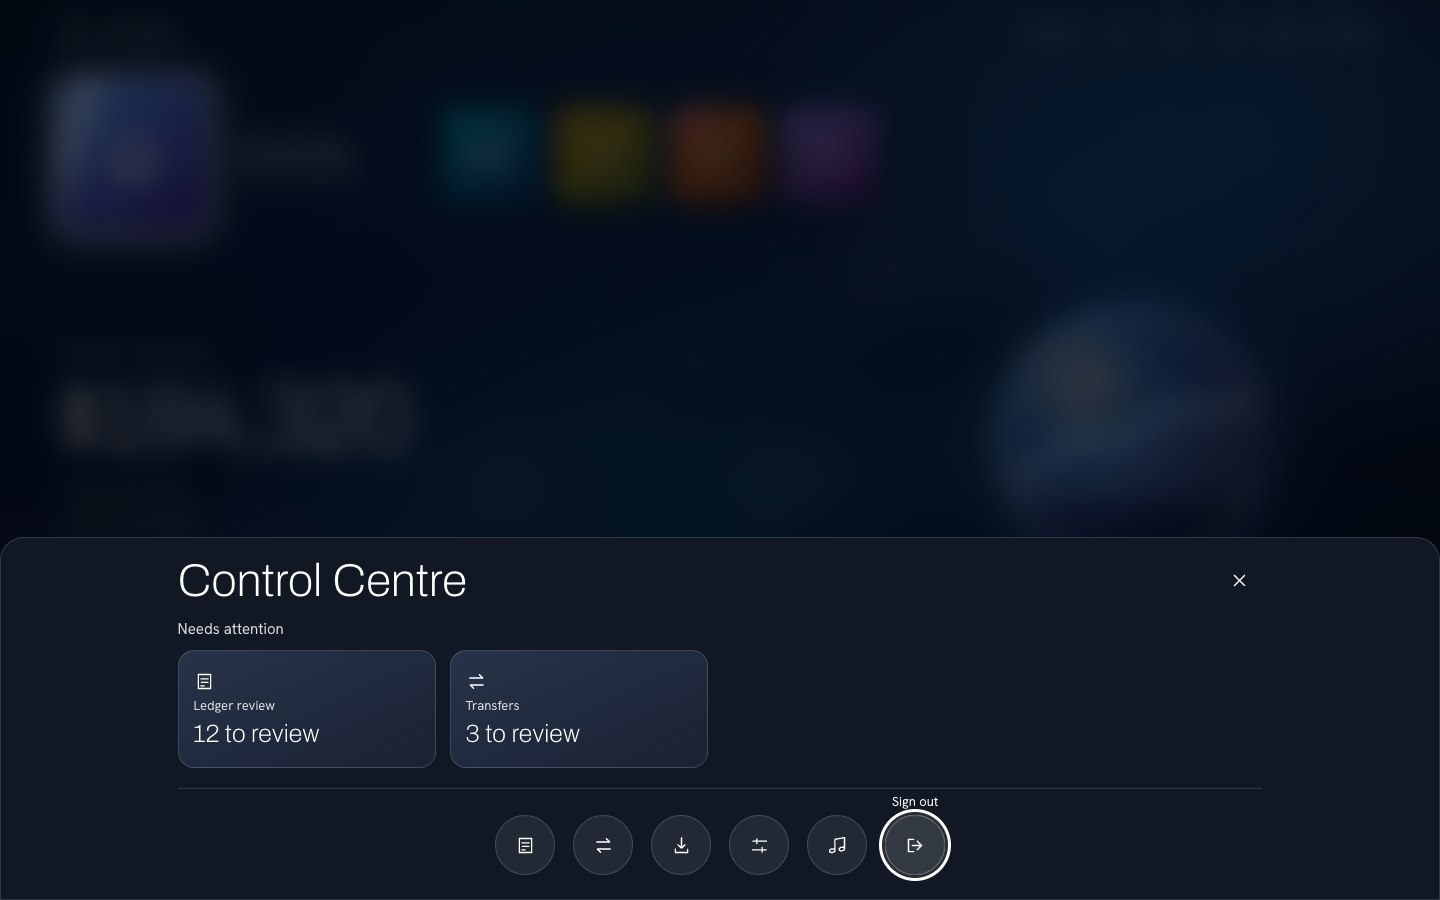
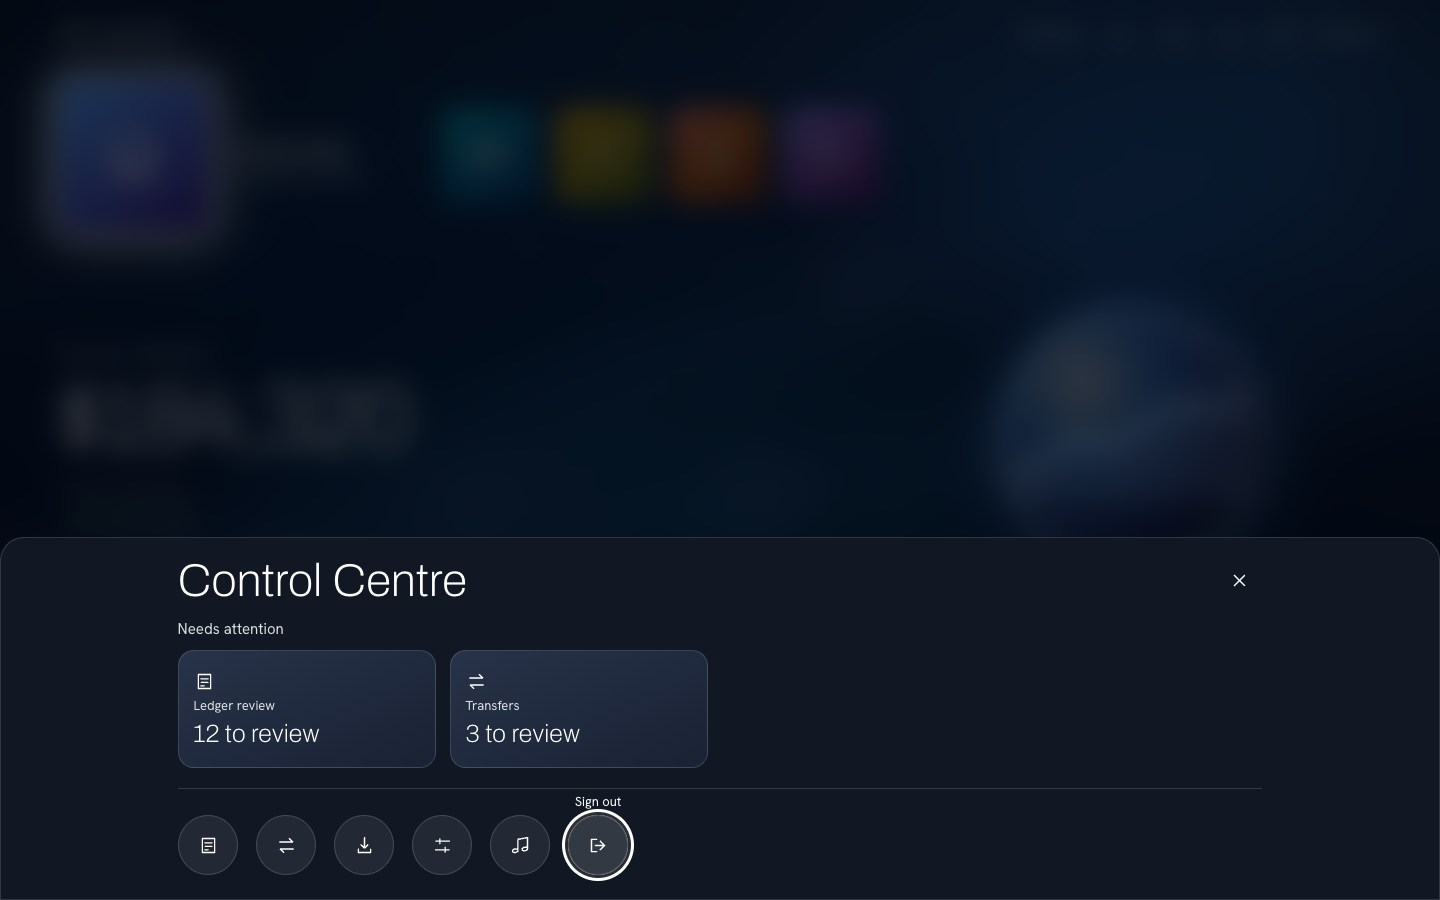
Replace the unsettled Gate 3 capture and apply the revised budget
Record the warm return geometry and desktop Control Centre alignment. Qualify both tiers under the revised mean and p95 added-CPU thresholds and retain the physical-device gate.

diff --git a/docs/design/console-phase-2-gate-3.md b/docs/design/console-phase-2-gate-3.md
@@ -3,7 +3,7 @@
 | Reproduction field | Value |
 | --- | --- |
 | Branch | `Revamp/ps5` |
-| Application commit | `0ba234dc9bc46b5e683e5652316efcd48166d8e6` |
+| Application commit | `8df1851031b0201c06491656b85685729898ee81` |
 | Worktree | `/Users/joel/Developer/fin-app` |
 | URL | [http://127.0.0.1:5320/dashboard](http://127.0.0.1:5320/dashboard) |
 
@@ -20,6 +20,14 @@ Sign in, select **Console**, and press **C** or select **Control Centre** in the
 
 [Control Centre at 320px](captures/console-phase-2-gate-3/320-control-centre.jpg) · [390px](captures/console-phase-2-gate-3/390-control-centre.jpg) · [768px](captures/console-phase-2-gate-3/768-control-centre.jpg) · [1024px](captures/console-phase-2-gate-3/1024-control-centre.jpg) · [1440px](captures/console-phase-2-gate-3/1440-control-centre.jpg) · [200%-equivalent reflow](captures/console-phase-2-gate-3/zoom-reflow-200-centre.jpg)
 
+## Correction after review
+
+The original lead capture showed a mid-entrance fade and a real headline collision. Home report hooks belonged to a keyed route, so a mount could paint the smaller unavailable headline, omit the activity row, and then project the arriving figure from the placeholder. The late activity row reduced the hero’s available height. The reported 0.016 Home-return shift came from that same late reflow of the summary, figure and orb as reports remounted.
+
+The Console viewport now owns the Dashboard reports across hub navigation. The first cold paint reserves the headline line and activity rail. The Home headline no longer projects from the loading placeholder. The replacement capture uses a settled warm return and shows 16px between the headline box and movement strip at 1440×900. Playwright blocks initial report responses, samples the returning Home for intersecting text boxes, and checks zero reported layout shift and zero renewed Dashboard reads. The desktop Control Centre capture reflects the shared left edge for the action bar and attention cards.
+
+The performance and volume recordings below were collected on the Gate 3 implementation at `0ba234d`. The replacement lead and desktop sheet captures are from the correction commit above.
+
 ## Master volume
 
 [Listen to the same Control Centre cue at 55%, then 15%](captures/console-phase-2-gate-3/master-volume-55-then-15.m4a). The peak fell from −21.6 dBFS to −32.5 dBFS. At 0% the captured output was silent. The capture taps the actual compressor output and preserves the app gains. The Gate 2 listening review remains with the owner.
@@ -33,10 +41,11 @@ Sign in, select **Console**, and press **C** or select **Control Centre** in the
 | Refresh intervals sampled | 240 | 240 | 241 |
 | Mean combined Chrome CPU work per frame | 2.27 ms | 2.15 ms | 0.50 ms |
 | Mean added CPU work against Reduce effects | 1.77 ms | 1.65 ms | — |
+| p95 added CPU work against Reduce effects | 2.27 ms | 2.14 ms | — |
 | p95 combined Chrome CPU work per frame | 3.21 ms | 3.08 ms | 0.94 ms |
 | p95 refresh interval | 16.7 ms | 16.8 ms | 16.7 ms |
 
-Balanced meets the 2 ms budget on average relative to the static scene. The trace does not establish a 2 ms ceiling on every frame. The longest renderer main-thread task in the marked navigation sequence was 18.5 ms.
+Full and Balanced pass the revised local ambient budget of ≤2 ms added mean and ≤3 ms added p95. Added work is the active tier statistic minus the matching Reduce-effects statistic. The longest renderer main-thread navigation task was 18.5 ms.
 
 ## Phase 2 acceptance matrix
 
@@ -50,9 +59,9 @@ Balanced meets the 2 ms budget on average relative to the static scene. The trac
 | Effects | Pass on checked states | Coarse pointers, four logical cores, a 4 GB device-memory signal and Save-Data each select Balanced. The higher-spec fine-pointer fixture defaults to Full. Full can be forced and persisted. Balanced has 20 particles, static ribbons, moving rays and beam, and opaque glass. Reduce effects removes particles and backdrop blur. Scene work pauses under an overlay and when the document reports hidden. It resumes on visibility return. |
 | Audio and settings | Pass | Fresh setup is silent. Consent and mute persist, and audio waits for a gesture after reload. OS reduced-motion override, unavailable Web Audio, music, volume and zero output were exercised. |
 | Animation properties | Pass for Console primitives | Inspected the Console animation targets for transform, opacity and filter. Tile paint stays opaque through the cross-fade and Control Centre uses a transform and opacity entry and exit. |
-| Focus-induced layout shift | Pass | A separate signed-in observation recorded zero layout shifts while previewing tiles. The Income route and Home return had data-driven layout shifts after mounting, including a Home return shift of 0.016 without recent input. |
+| Focus-induced layout shift | Pass | A separate signed-in observation recorded zero layout shifts while previewing tiles. The old trace recorded 0.016 on Home return when the preview reports remounted. Desktop and phone regression checks now report zero warm-return shifts and zero headline overlaps. |
 | Navigation task length and refresh cadence | Pass in local Chrome | Longest renderer main-thread navigation task was 18.5 ms. The 60 Hz sample maintained a 16.7–16.8 ms p95 refresh interval. |
-| Ambient 2 ms ceiling on every frame | Fail to establish | Balanced added 1.65 ms per frame on average. Combined Chrome CPU work at p95 was 3.08 ms, so the trace cannot certify the ceiling on each frame. |
+| Local ambient CPU budget | Pass | Full added 1.77 ms mean and 2.27 ms p95. Balanced added 1.65 ms mean and 2.14 ms p95. The physical-device gate determines the verdict. |
 | Physical device qualification | Deferred | The 2020 M1 MacBook Air Safari and Pixel 6a Chrome gates are scheduled for Phases 3 and 5. |
 
 All 30 Playwright cases and 730 offline tests passed. Frontend and browser TypeScript checks and the production build passed.
